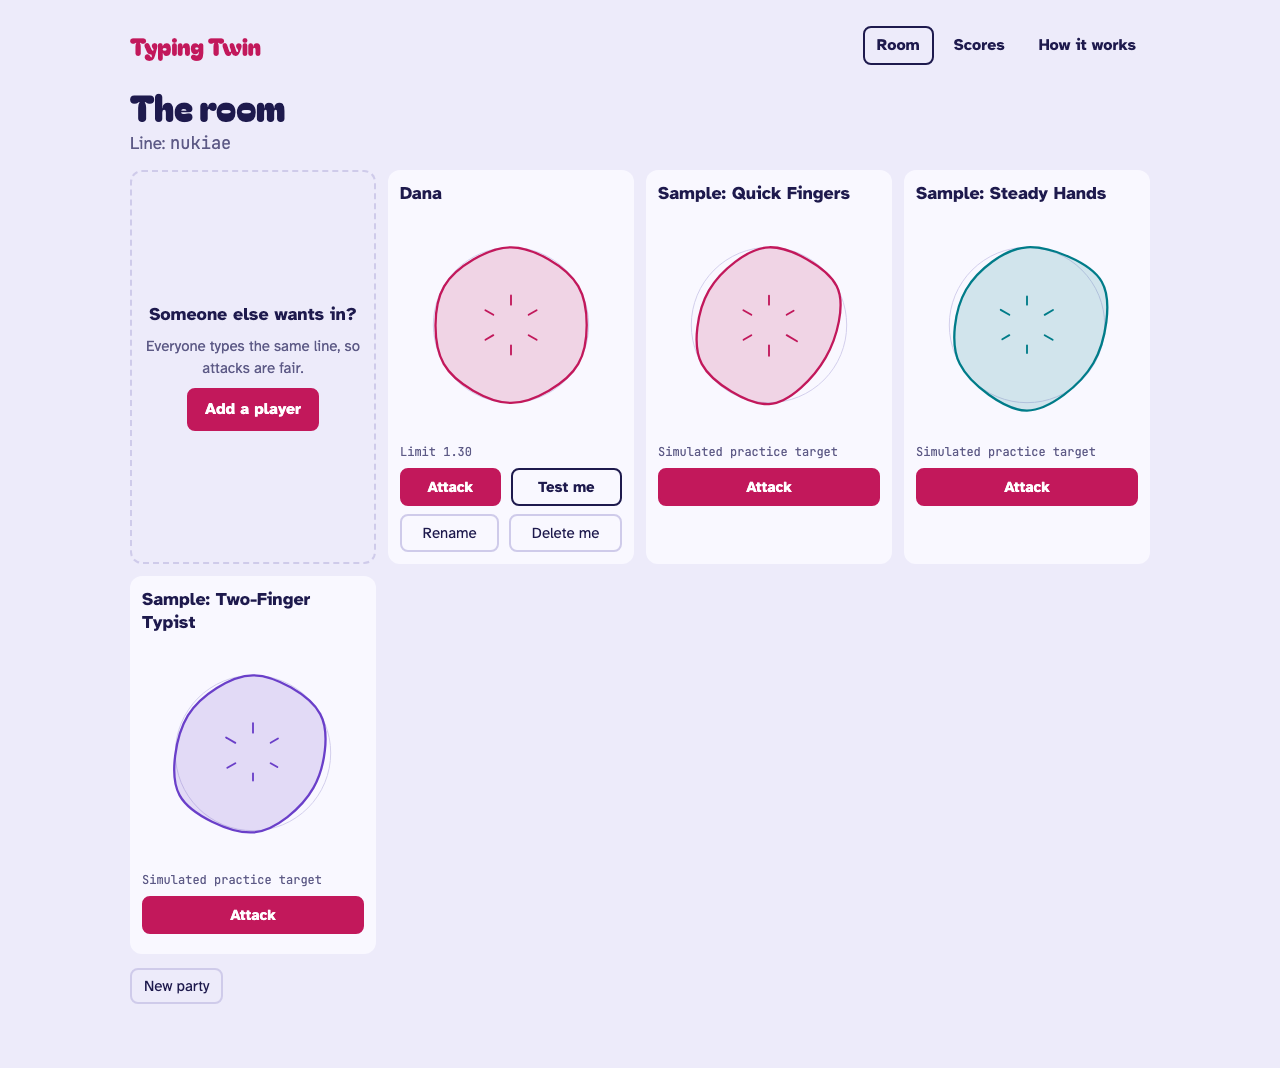
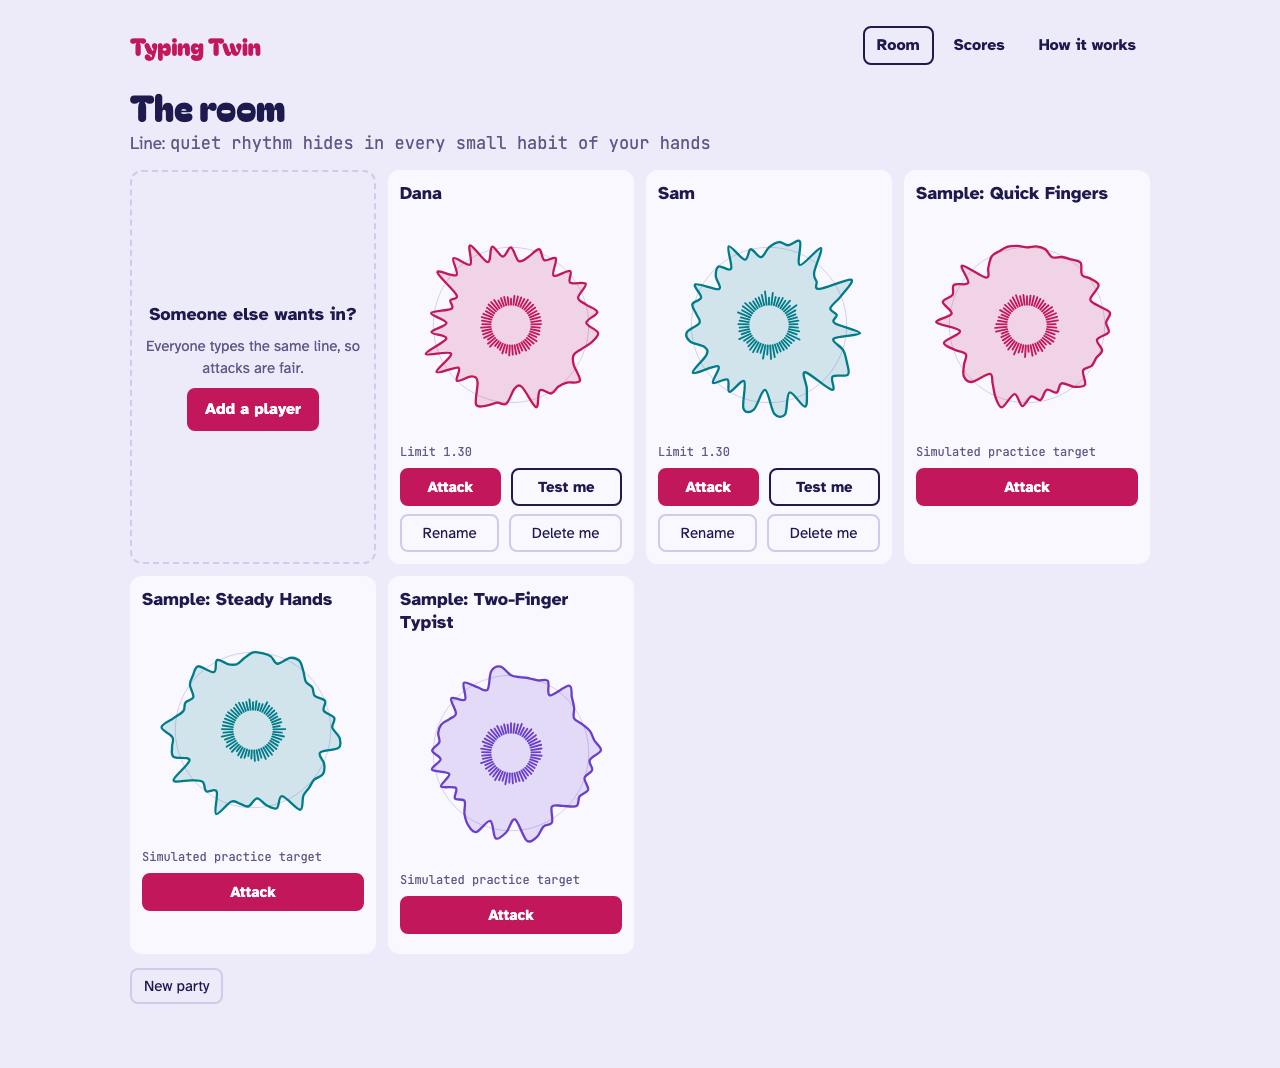
docs: rewrite README.md for the live game
Lead with Typing Twin and typingtwin.com instead of the account demo,
and drop the placeholder link and other stale statements. The account
demo's detail moves to docs/account-demo.md. The screenshot is retaken,
because the old one showed the removed one-word level.

Also corrects the flight definition: it runs from one key going down
to the next going down, as core/features.py measures it.

diff --git a/README.md b/README.md
@@ -1,32 +1,71 @@
-# Keystroke Dynamics
+# Typing Twin
 
-**Live:** [typing-twin-party.ondigitalocean.app](https://typing-twin-party.ondigitalocean.app)
-*(placeholder -- not deployed yet; see [`DEPLOY.md`](DEPLOY.md))*
+A party game that draws your typing rhythm as a signature, then dares your friends to pass as you.
 
-A demo app built around one idea: *how* you type is a signal, not just
-*what* you type. The same scoring engine runs two things:
+**Play it: [typingtwin.com](https://typingtwin.com)**
 
-- **Typing Twin Party** -- an anonymous party game. Type a line a few
-  times, see your rhythm drawn as a signature, then try to pass as your
-  friends on one keyboard. No accounts, no database. This is what a
-  visitor sees by default.
-- **The account-based demo** -- register, build a typing profile, and log
-  in with your password plus your typing as a second signal. Off by
-  default; see [Running the account-based demo too](#running-the-account-based-demo-too).
+![The room in Typing Twin: two players' and three simulated typists' rhythm signatures, each with an Attack button](docs/screenshot-room.png)
 
-![The room in Typing Twin Party: real and simulated players' typing signatures, each with an Attack button](docs/screenshot-room.png)
+## Play it
 
-**This is a research/demo project, not a production biometric system.** Its
-measured accuracy (see [Method and results](#method-and-results) below) is
-good enough to illustrate the idea, not to gate access to anything that
-matters on its own. See [Known limitations](#known-limitations).
+1. Open the site on a computer and start a party. There's no sign-up.
+2. Type one sentence 5 times. The first is a warm-up.
+3. See your rhythm drawn as a ring, and hear it played back.
+4. Enter the room. Add friends on the same keyboard, or attack one of the three simulated typists.
+5. Try to type the line the way someone else does. The game says whether you passed as them, how close you came, and gives a one-line clue about what was off.
 
-Originally a 2018 Python 2/Flask class project; rewritten from scratch in
-Python 3 following [`docs/plans/done/MODERNIZATION_PLAN.md`](docs/plans/done/MODERNIZATION_PLAN.md), which
-also has the full phase-by-phase history of that rewrite. The party game
-was added later -- see [`docs/plans/done/PARTY_LAUNCH_PLAN.md`](docs/plans/done/PARTY_LAUNCH_PLAN.md).
+You can also test your own signature, try to disguise it, and watch a replay attack beat a target with their own typical timing.
 
-## Quick start
+The game needs a physical keyboard. On a phone you can look around and watch a replay, but not type. See the [roadmap](#roadmap).
+
+## How it works
+
+The browser records when each key goes down and up. From that, the server measures two things:
+
+- **Hold:** how long each key stays down.
+- **Flight:** the time from one key going down to the next.
+
+Your training lines become a profile: an average and a spread for each timing. A new line is scored by how far each of its timings sits from that average, measured in that timing's own spread. The average of those is the distance, and a distance under the player's limit passes as them. The method is called scaled Manhattan distance.
+
+The full method, with numbers and how to reproduce them, is in [`evaluation/results.md`](evaluation/results.md).
+
+## Results and limits
+
+The scoring method was tested on the CMU Keystroke Dynamics Benchmark (Killourhy and Maxion, 2009). It reached a mean equal error rate of **9.1%**, close to the roughly 10% the paper reports for the same method.
+
+That number is not the game's accuracy:
+
+- The benchmark has 51 people typing one fixed password 400 times each. The game builds a profile from 3 or 4 lines of a sentence.
+- The game uses its own provisional settings, tuned for a few training lines. Nobody has measured its accuracy.
+- Signatures can look alike, and a distinctive shape doesn't prove anyone is unique.
+- A replay of someone's typical timing passes as them. Rhythm can't be the only check on anything that matters.
+
+This is a game and a demo, not a security product.
+
+## Architecture
+
+```
+Browser                         One FastAPI process                  Optional
+TypeScript, built with Vite     DigitalOcean App Platform            Postgres
+
+key down/up timing  ──HTTPS──▶  api/    routes, origin check,
+                                        rate limits
+rings, rooms, scores ◀────────  game/   parties and profiles,  ───▶  score_attempts
+                                        in memory                    opted-in scores only,
+                                core/   pure scoring logic           written in the background
+```
+
+- **All scoring runs on the server**, in `src/keystroke_dynamics/core/`. That code is pure Python with no web or database imports, so it's tested alone.
+- **Game state lives in memory.** A party disappears when it's deleted, after 2 hours idle, or when the app restarts. The game needs no database.
+- **One worker process**, because that memory isn't shared.
+- **Scores are optional.** If the scores database is missing or down, the game plays on.
+- **No third-party requests.** Fonts are self-hosted, and a content security policy blocks inline scripts.
+
+Every push to `master` deploys. [`DEPLOY.md`](DEPLOY.md) has the setup.
+
+The repository also holds an older account-based demo, where typing is a second signal next to a password. It's switched off on the live site. See [`docs/account-demo.md`](docs/account-demo.md).
+
+## Run it locally
 
 With [Docker Compose](https://docs.docker.com/compose/):
 
@@ -34,156 +73,23 @@ With [Docker Compose](https://docs.docker.com/compose/):
 docker compose up --build
 ```
 
-Then open <http://127.0.0.1:8000> -- Typing Twin Party. No Postgres, no
-`.env` file, nothing else to install.
+Then open <http://localhost:8000>. There's no database and nothing else to install.
 
-To put this on a public URL instead of running it locally, see
-[`DEPLOY.md`](DEPLOY.md) (DigitalOcean App Platform, public mode,
-~$5/month).
-
-### Running the account-based demo too
-
-Needs Postgres, off by default. Layer `compose.accounts.yaml` on top:
-
-```bash
-cp .env.example .env
-docker compose -f compose.yaml -f compose.accounts.yaml up --build
-```
-
-<http://127.0.0.1:8000> is now the account system's home page, and the
-game moves to <http://127.0.0.1:8000/party> (see
-[Party mode](#party-mode) below for why).
-
-### Running without Docker
-
-Requires Python 3.12+ ([`uv`](https://docs.astral.sh/uv/)) and Node.js 22+.
+Without Docker, you need Python 3.12 or newer with [`uv`](https://docs.astral.sh/uv/), and Node.js 22 or newer:
 
 ```bash
 uv sync
 cd frontend && npm install && npm run build && cd ..
-uv run uvicorn keystroke_dynamics.main:app --reload
+DEBUG=true uv run uvicorn keystroke_dynamics.main:app --reload
 ```
 
-Opens the same Typing Twin Party at <http://127.0.0.1:8000>, no Postgres
-needed. For the account-based demo too, additionally need a Postgres
-instance:
+### Run the tests
+
+The backend tests need a disposable Postgres, because they also cover the account demo and score collection:
 
 ```bash
-cp .env.example .env               # edit DATABASE_URL, set ENABLE_ACCOUNTS=true
-uv run alembic upgrade head
-uv run uvicorn keystroke_dynamics.main:app --reload
-```
-
-## Architecture
-
-- **Backend**: FastAPI (sync routes), Pydantic v2 for request/response
-  validation, Jinja2 for server-rendered pages. SQLAlchemy 2 + Alembic
-  against Postgres, with three shared tables (`users`, `typing_profiles`,
-  `profile_features`) -- no per-user tables.
-- **Frontend**: server-rendered HTML + local CSS, plus one small TypeScript
-  module (built with Vite) that captures key timing. No jQuery, no SPA
-  framework.
-- **Scoring**: pure, dependency-free Python in `src/keystroke_dynamics/core/`
-  -- event validation and pairing, hold/flight feature extraction, Welford's
-  online algorithm for running statistics, and the scaled-Manhattan-distance
-  scorer. None of it touches the database, HTTP, or the frontend, so it's
-  tested in complete isolation (`tests/core/`).
-- **Auth**: Argon2id password hashes, signed HttpOnly session cookies
-  (Starlette's `SessionMiddleware`). Typing is a signal alongside the
-  password, never a replacement for it.
-
-```
-src/keystroke_dynamics/
-  core/        pure scoring logic (events, features, stats, scoring)
-  db/          SQLAlchemy models and queries
-  api/         FastAPI routes, auth, rate limiting, request schemas
-  game/        the anonymous party game's own store/scoring/targets
-  templates/   Jinja2 pages
-  static/      local CSS + the built frontend JS
-frontend/      TypeScript capture module, Vite build, Playwright e2e tests
-migrations/    Alembic
-evaluation/    accuracy benchmark against a public dataset
-scripts/       one-off tooling (the party game's load test, its OG image)
-tests/         pytest (core, api, db, game) -- see "Running the tests" below
-```
-
-### Party mode
-
-`ENABLE_ACCOUNTS=false` (the default -- see `.env.example`) is public
-mode: Typing Twin Party, and nothing else, at `/`. No registration/login/
-profile routes, no account pages, no database connection of any kind --
-a few friends type on one keyboard and get scored by the same `core/`
-engine above, under a signed session cookie instead of an account.
-`ENABLE_ACCOUNTS=true` mounts the account system too, and the game moves
-to `/party` so it doesn't collide with the account system's own home
-page at `/`. See [`docs/plans/done/PARTY_LAUNCH_PLAN.md`](docs/plans/done/PARTY_LAUNCH_PLAN.md) for the
-full design and `src/keystroke_dynamics/game/` for the implementation.
-
-## Method and results
-
-Hold time (key down to key up) and flight time (key up to next key down) are
-extracted for each key and key pair. The server keeps a running mean and
-variance per feature (Welford's algorithm) -- never the raw timestamps they
-came from. To score a sample, each feature is compared to its stored mean,
-scaled by that feature's own standard deviation (scaled Manhattan distance);
-the average distance across compared features determines match / no-match /
-insufficient-data. The running app explains this in two places: Party's own
-How it works tab (public mode, `/`), tuned for a handful of training
-lines, and `/how-it-works` with the account system enabled, describing
-the full benchmark-calibrated method below.
-
-This was evaluated against the CMU Keystroke Dynamics Benchmark Data Set
-(Killourhy & Maxion, 2009), reaching a **mean equal error rate of about
-9%**, close to the ~10% the original paper reports for a comparable method.
-Full method, numbers, and how to reproduce them:
-[`evaluation/results.md`](evaluation/results.md).
-
-## Privacy and security notes
-
-- Raw keystroke events are processed in memory only -- never written to
-  disk, the database, or logs. Only derived statistics (count, mean,
-  variance) per key/key-pair are stored.
-- Passwords are hashed with Argon2id. A failed typing check is returned as
-  a signal alongside login; it never fails login or locks an account by
-  itself, and never reveals whether the password was the thing that failed.
-- Login responses are identical for an unknown username and a wrong
-  password -- no username-enumeration endpoint exists.
-- Sessions are signed, `HttpOnly`, `SameSite=Lax` cookies (`Secure` outside
-  local development). No CORS middleware; the app is same-origin only, and
-  every state-changing request is checked against the `Origin` header.
-- Request size and event count are capped; login, registration, and typing
-  verification are rate-limited (in-memory, per process -- see
-  `src/keystroke_dynamics/api/rate_limit.py` for that limitation's exact
-  scope).
-- You can delete your typing profile (the statistics, not raw data, since
-  none is kept) at any time from the Authenticate page.
-- **Typing Twin Party** (public mode, `/`) has its own, separate identity
-  model: a signed session cookie names your *party*, not an account. A
-  party's players, attempts, and generated names live in memory only --
-  no database, ever, in this mode -- and disappear when the party is
-  deleted, expires (2 hours idle), or the process restarts. See the
-  game's own How it works tab, or
-  [`docs/plans/done/PARTY_LAUNCH_PLAN.md`](docs/plans/done/PARTY_LAUNCH_PLAN.md), for the full model.
-
-## Known limitations
-
-- **Measured accuracy is for one fixed password typed many times**, not the
-  app's actual free-text passages -- see `evaluation/results.md`'s own
-  Limitation section. The provisional match threshold is calibrated on that
-  benchmark, not independently validated.
-- **Rate limiting is in-memory and per-process.** It resets on restart and
-  does not share state across multiple app instances/workers.
-- Out of scope by design: microservices, message queues, Kubernetes, a
-  separate frontend app, passkeys, cloud deployment. See
-  `docs/plans/done/MODERNIZATION_PLAN.md`.
-- See [`TODO.md`](TODO.md) for anything still open.
-
-## Running the tests
-
-Backend (needs a real Postgres -- `docker compose -f docker-compose.test.yml
-up -d` starts a disposable one):
-
-```bash
+docker compose -f docker-compose.test.yml up -d
+uv sync --group evaluation
 uv run pytest
 uv run ruff check . && uv run ruff format --check .
 uv run mypy src
@@ -193,8 +99,43 @@ Frontend:
 
 ```bash
 cd frontend
-npm run typecheck
-npm run test     # unit tests (vitest)
-npm run build
-npm run e2e       # Playwright, against a running app + Postgres -- see frontend/README.md
+npm run typecheck && npm run test && npm run build
+npm run e2e    # Playwright, against a running app. See frontend/README.md
 ```
+
+## Privacy and security
+
+**Sent to the server:** which key, whether it went down or up, and when, for the game's line only. The line is fixed, so the game never sees anything you'd type elsewhere.
+
+**Kept in memory:** each player's name and timing statistics, and the party's attempts. They go when you choose **Delete me** or **New party**, after 2 hours idle, or when the app restarts. Everyone in a party can see its names and signatures.
+
+**Never stored or logged:** raw keystrokes and their timings. They're discarded after each request.
+
+**Opt-in score sharing:** a player can tick "Share my scores to help test this". It's off by default and never needed to play. An opted-in result stores:
+
+- the date, the line, the kind of attempt, and whether it passed
+- pace, distance, and the limit
+- random IDs that group a party's attempts
+- the scoring and consent wording versions, and how much data the score used
+
+It never stores names, keystrokes, timings, or IP addresses. **Delete me** and **New party** remove a player's rows, and rows are deleted after 12 months by default.
+
+**Security:**
+
+- The session cookie is signed, `HttpOnly`, `SameSite=Lax`, and `Secure`.
+- Every state-changing request is checked against the `Origin` header.
+- Request size and event counts are capped.
+- Requests are rate-limited by IP address, which is never stored with scores.
+
+## History
+
+- **2012:** my thesis on access control by keyboard rhythm. Its method is reconstructed in [`evaluation/results.md`](evaluation/results.md) for comparison.
+- **2016 to 2018:** a personal web app in Python 2 and Flask, built on the same idea.
+- **2026:** rewritten from scratch in Python 3, then turned into this game. The plans and what came of them are in [`docs/plans/`](docs/plans/README.md).
+
+## Roadmap
+
+- **Shareable rooms:** start a room, share its link, and play live from separate computers. See [`docs/plans/active/ROOMS_PLAN.md`](docs/plans/active/ROOMS_PLAN.md).
+- **Mobile:** the full game on a phone, with an on-page keyboard that also scores where your thumbs land. See [`docs/plans/active/MOBILE_PLAN.md`](docs/plans/active/MOBILE_PLAN.md).
+
+Smaller open items are in [`TODO.md`](TODO.md).

diff --git a/docs/account-demo.md b/docs/account-demo.md
@@ -1,0 +1,46 @@
+# The account-based demo
+
+The repository's older demo: register, build a typing profile, and log in with a password plus your typing as a second signal. It uses the same scoring code as the game. It's off by default and off on the live site.
+
+## Run it
+
+It needs Postgres. With Docker Compose, layer `compose.accounts.yaml` on top:
+
+```bash
+cp .env.example .env
+docker compose -f compose.yaml -f compose.accounts.yaml up --build
+```
+
+<http://127.0.0.1:8000> is then the account system's home page, and the game moves to <http://127.0.0.1:8000/party>, so the two don't collide at `/`.
+
+Without Docker, after the steps in the main README:
+
+```bash
+cp .env.example .env               # edit DATABASE_URL, set ENABLE_ACCOUNTS=true
+uv run alembic upgrade head
+uv run uvicorn keystroke_dynamics.main:app --reload
+```
+
+## How it's built
+
+- `ENABLE_ACCOUNTS=true` mounts the register, login, and profile routes and the account pages. With it `false`, none of them exist and the app opens no database connection.
+- Postgres through SQLAlchemy 2 and Alembic, with three shared tables: `users`, `typing_profiles`, and `profile_features`.
+- The server keeps a running count, mean, and variance for each timing (Welford's algorithm). It never stores the raw timestamps they came from.
+- A sample is scored against the profile with the benchmark-calibrated threshold from `evaluation/results.md`. The result is match, no match, or not enough data.
+- The `/how-it-works` page in this mode explains the method.
+
+## Privacy and security
+
+- Raw keystroke events are processed in memory, and never written to disk, the database, or logs.
+- Passwords are hashed with Argon2id.
+- A failed typing check is returned as a signal next to login. It never fails a login or locks an account by itself.
+- Login responses are the same for an unknown username and a wrong password, and no endpoint reveals whether a username exists.
+- Sessions use signed, `HttpOnly`, `SameSite=Lax` cookies, and `Secure` outside local development.
+- Login, registration, and typing verification are rate-limited. The limiter is in memory and per process: it resets on restart and isn't shared between instances. See `src/keystroke_dynamics/api/rate_limit.py`.
+- You can delete your typing profile at any time from the Authenticate page.
+
+## Limits
+
+- The measured accuracy is for one fixed password typed many times, not the free text this demo accepts. The match threshold is calibrated on that benchmark and hasn't been validated independently.
+- Open items are in [`TODO.md`](../TODO.md).
+- The plan this demo was built from is [`docs/plans/done/MODERNIZATION_PLAN.md`](plans/done/MODERNIZATION_PLAN.md).
